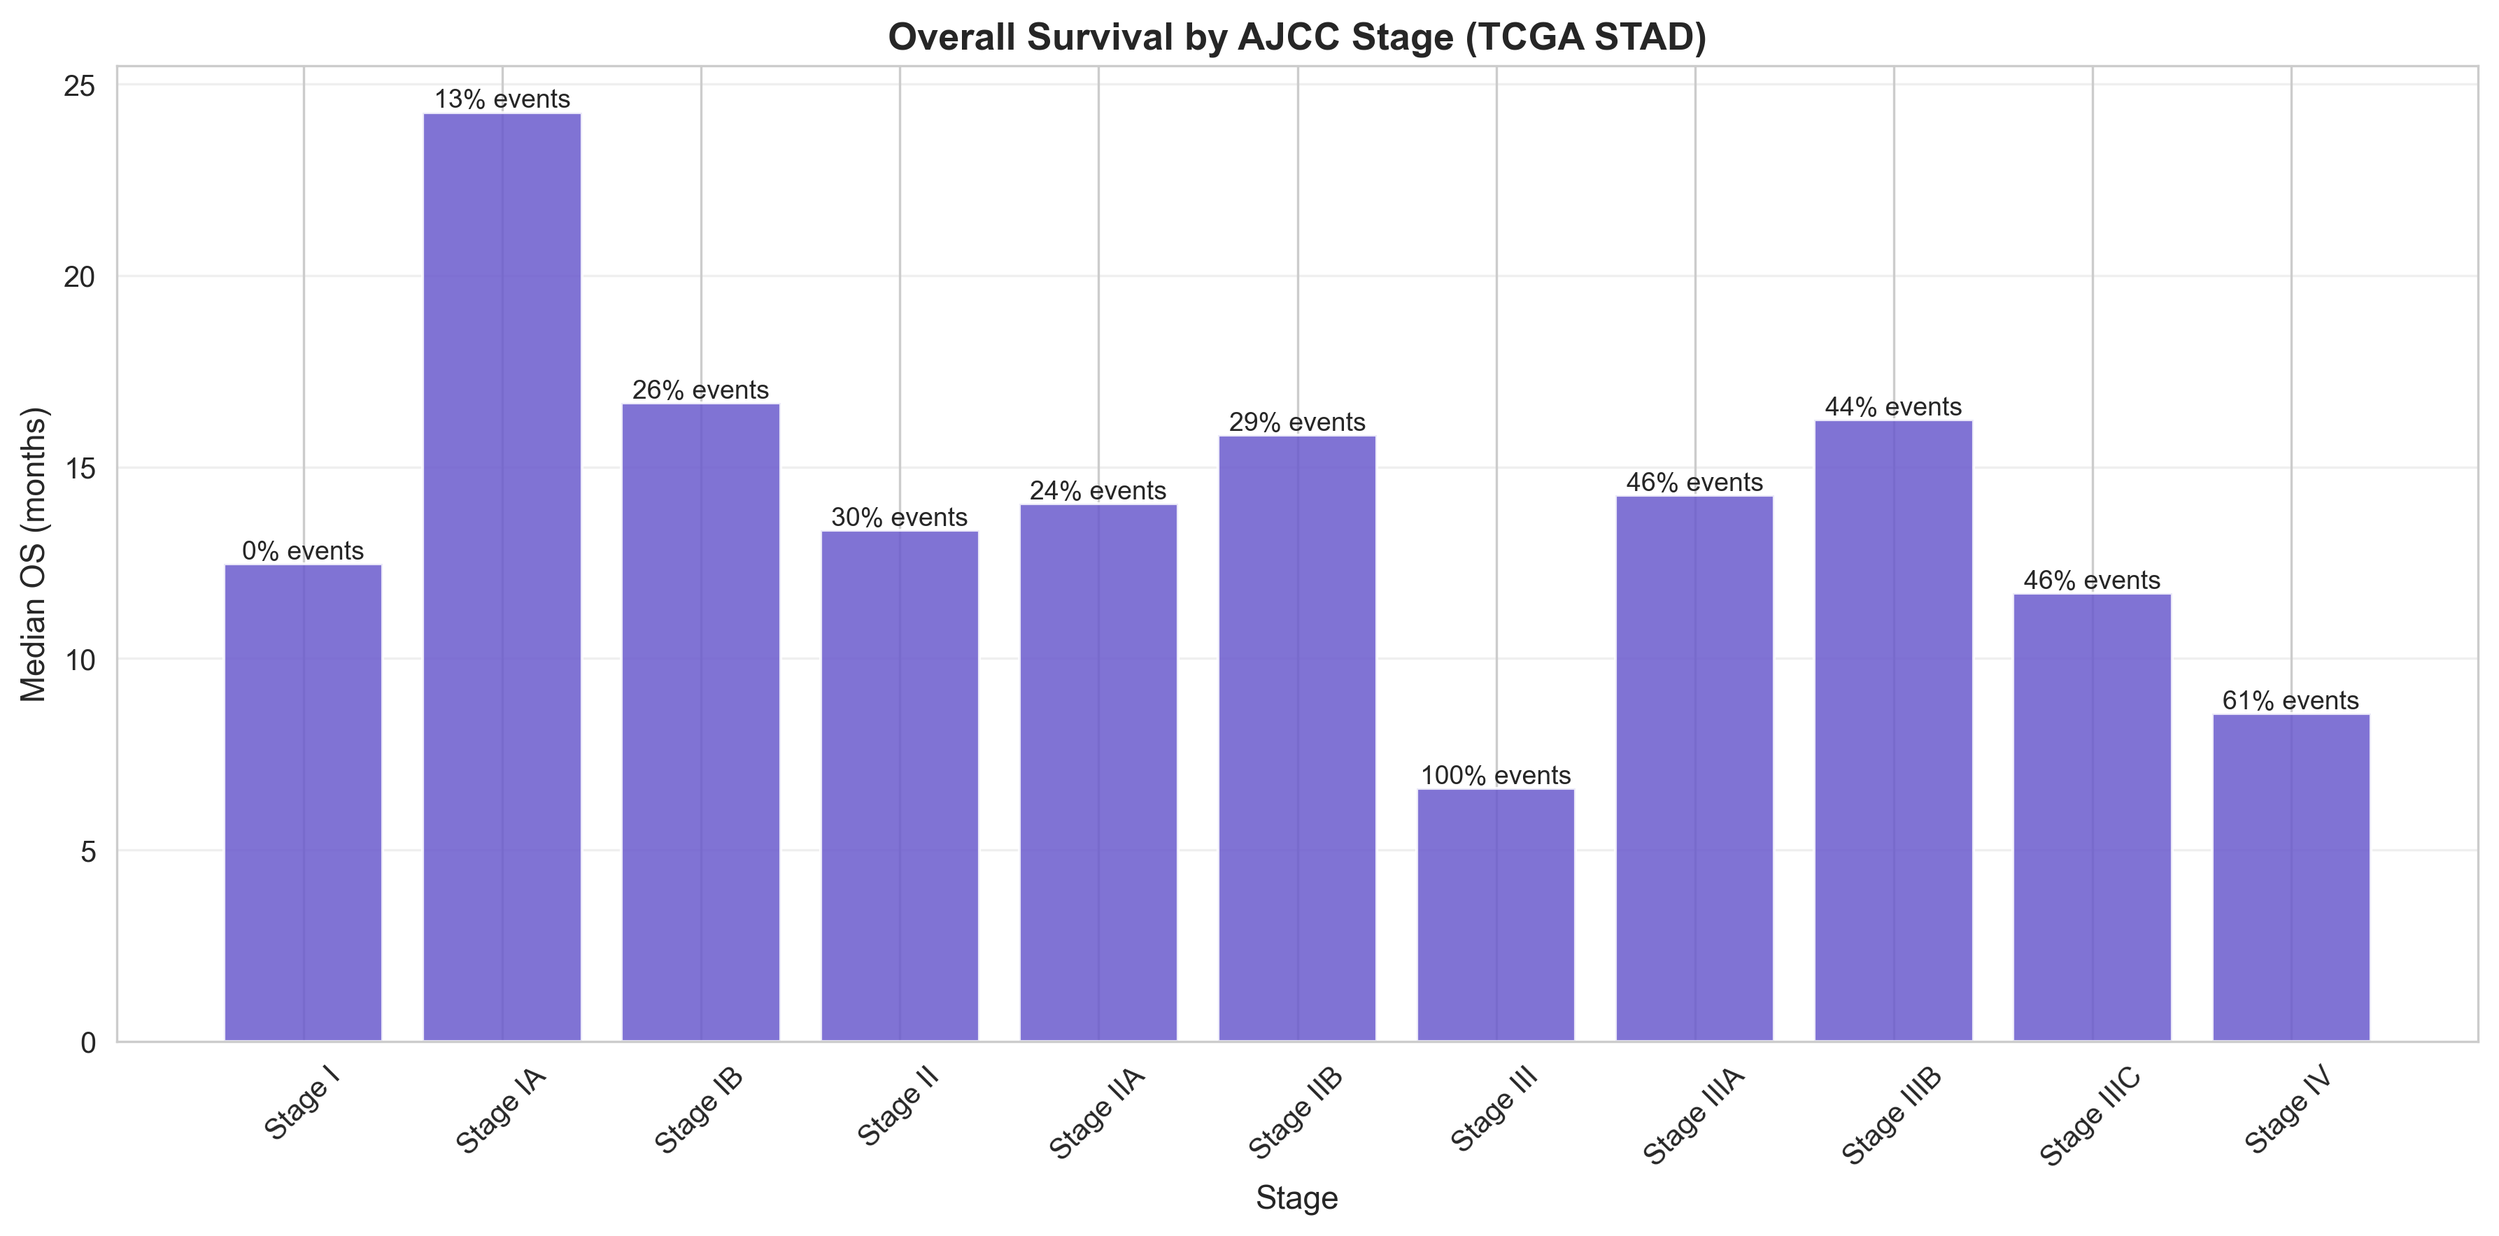
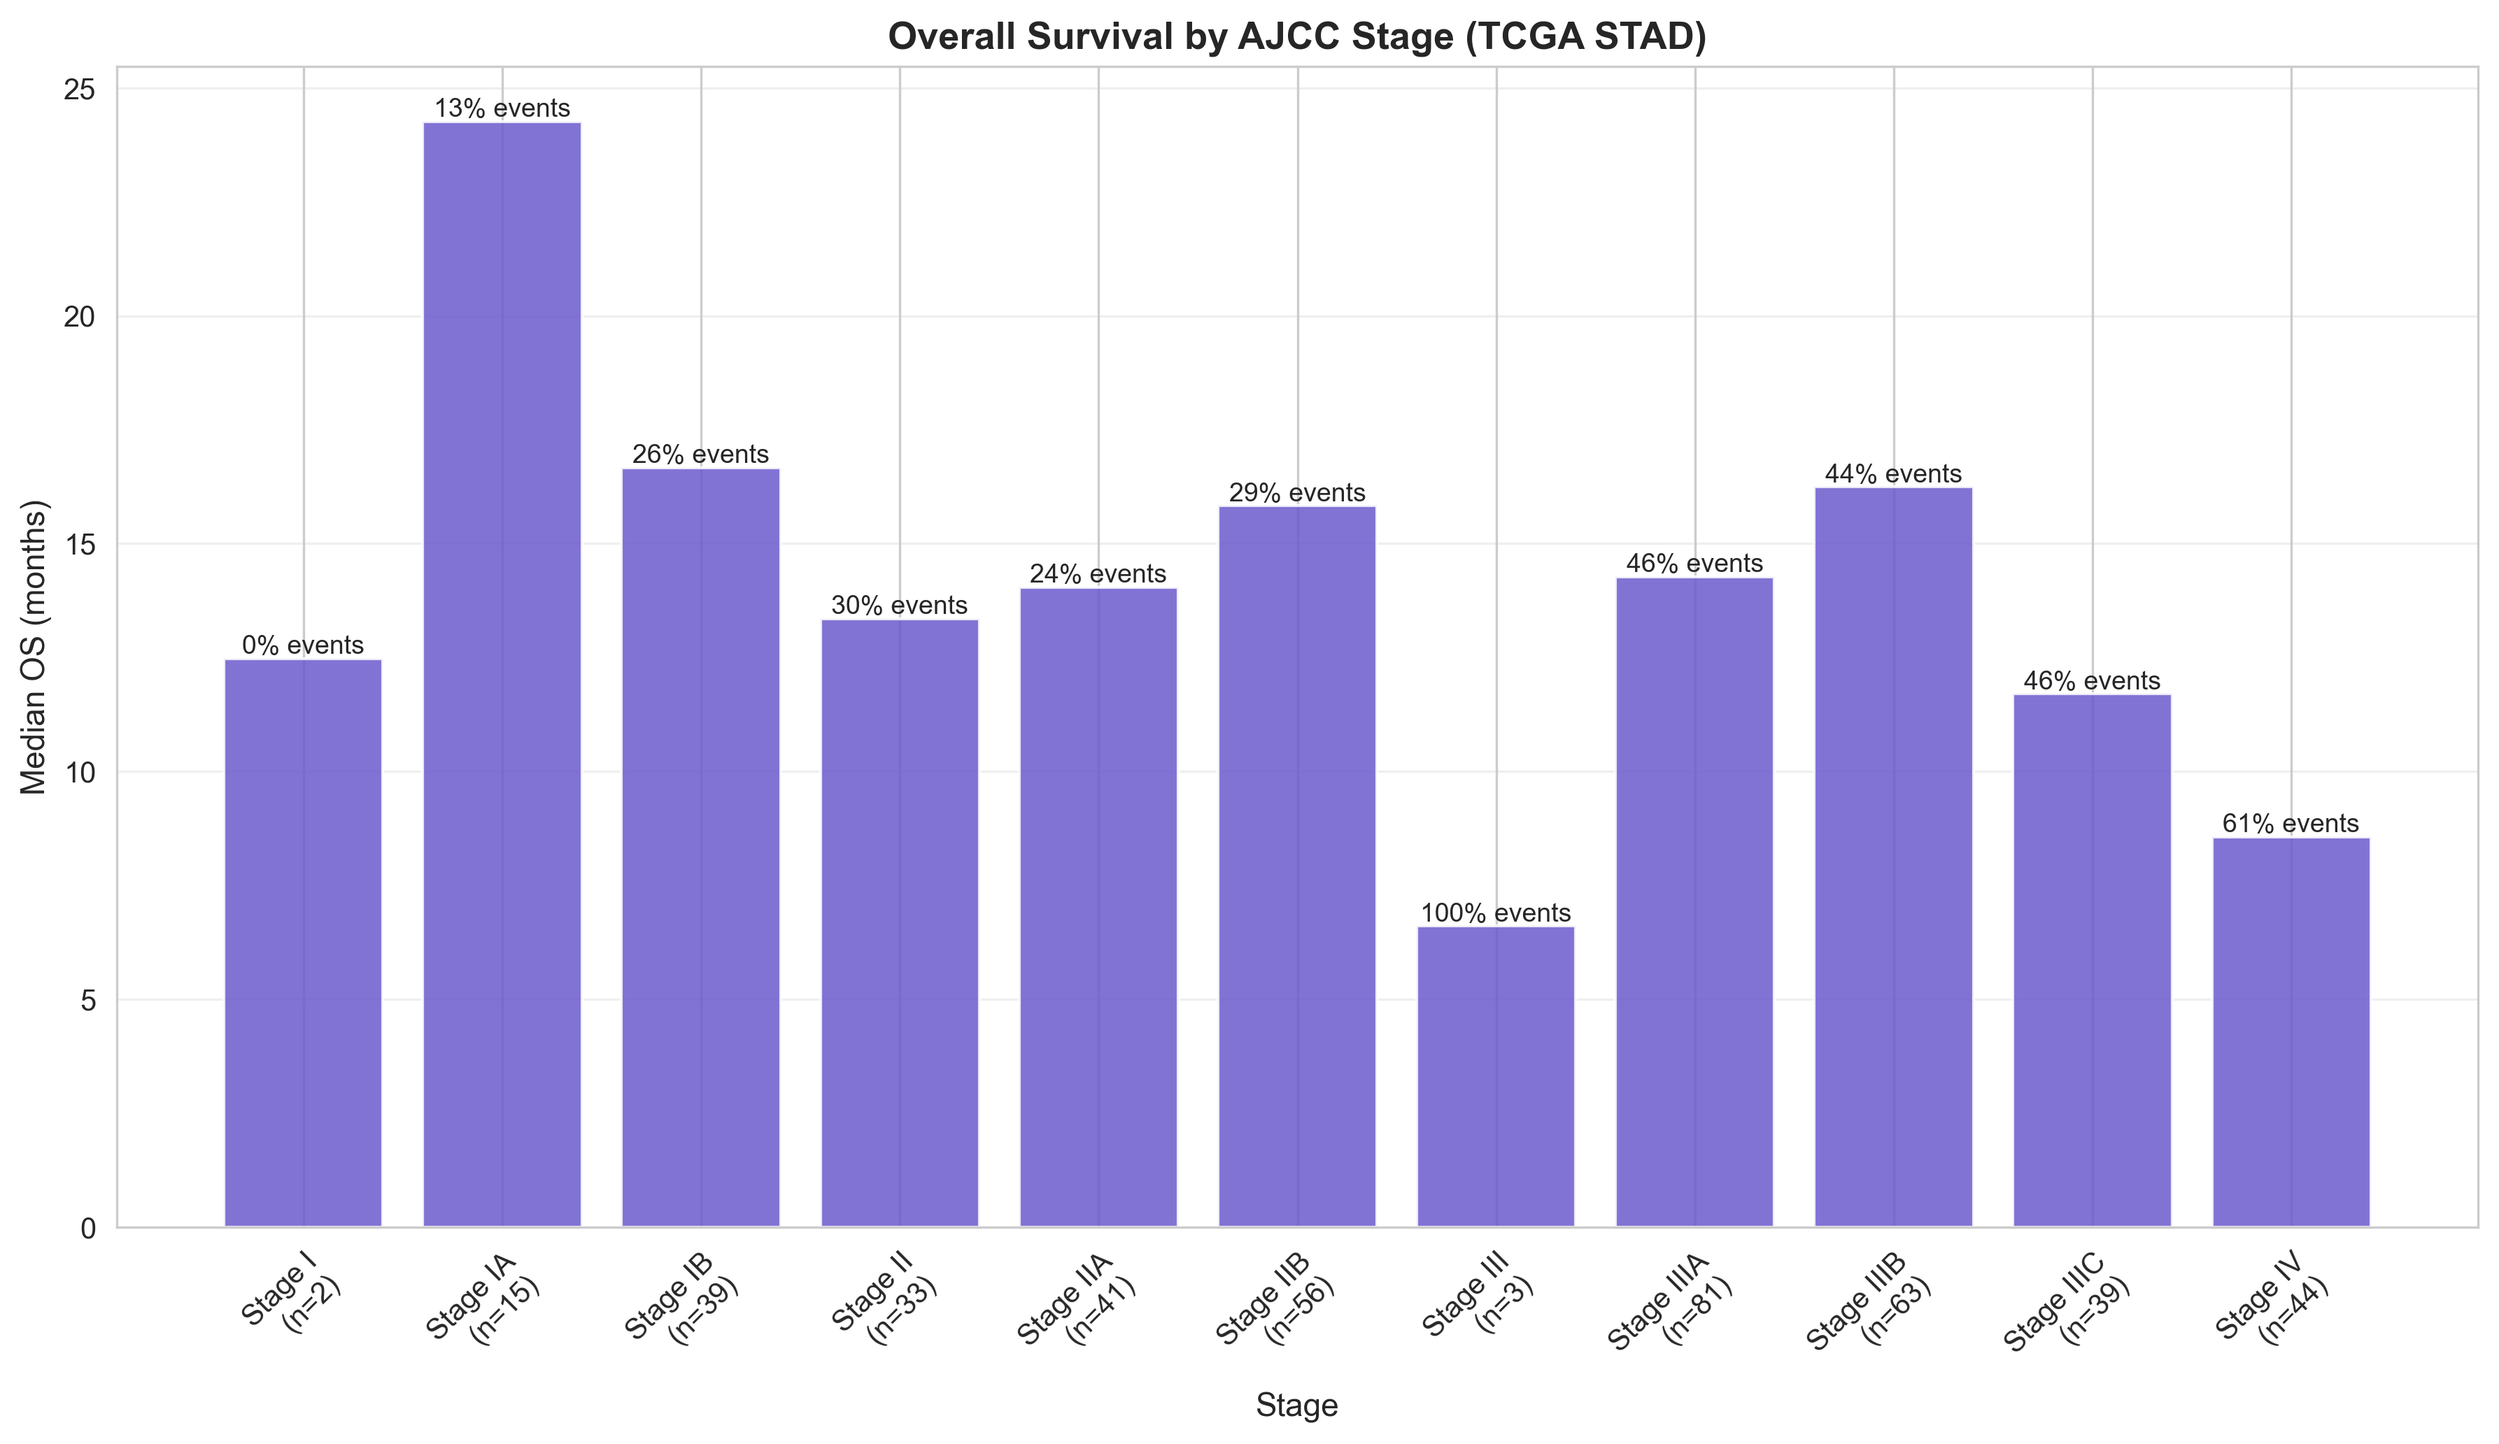
kaplan-meier plots for different stages of disease progression

diff --git a/staging_visualization.py b/staging_visualization.py
@@ -16,6 +16,7 @@ import matplotlib.pyplot as plt
 import numpy as np
 import pandas as pd
 import seaborn as sns
+from lifelines import KaplanMeierFitter
 
 sns.set_style("whitegrid")
 plt.rcParams["figure.figsize"] = (14, 8)
@@ -83,6 +84,7 @@ M_STAGE_ORDER = ["M0", "M1", "MX"]
 FIG_STAGE_DISTRIBUTION = "tnm_staging_distribution.png"
 FIG_TN_HEATMAP = "tn_heatmap.png"
 FIG_SURVIVAL = "os_by_stage.png"
+FIG_KM_SURVIVAL = "km_by_stage.png"
 
 
 def parse_args() -> argparse.Namespace:
@@ -100,6 +102,12 @@ def parse_args() -> argparse.Namespace:
         type=Path,
         default=BASE_DIR,
         help="Directory to store generated figures (default: project root).",
+    )
+    parser.add_argument(
+        "--km-min-group",
+        type=int,
+        default=15,
+        help="Minimum patients per stage required to draw a Kaplan-Meier curve (default: %(default)s).",
     )
     return parser.parse_args()
 
@@ -330,12 +338,17 @@ def plot_survival_by_stage(summary: pd.DataFrame, output_path: Path) -> bool:
     if summary.empty:
         return False
 
-    fig, ax = plt.subplots(figsize=(12, 6))
-    bars = ax.bar(summary.index, summary["median_os"], color="slateblue", alpha=0.85)
+    fig, ax = plt.subplots(figsize=(12, 7))
+
+    new_labels = [f"{stage}\n(n={int(count)})" for stage, count in zip(summary.index, summary["patient_count"])]
+
+    bars = ax.bar(new_labels, summary["median_os"], color="slateblue", alpha=0.85)
+
     ax.set_ylabel("Median OS (months)", fontsize=11)
     ax.set_title("Overall Survival by AJCC Stage (TCGA STAD)", fontsize=13, fontweight="bold")
     ax.set_xlabel("Stage", fontsize=11)
-    ax.tick_params(axis="x", rotation=45)
+    ax.set_xticklabels(new_labels, rotation=45, ha="right", rotation_mode="anchor")
+
     ax.grid(axis="y", alpha=0.3)
 
     for bar, rate in zip(bars, summary["event_rate_pct"]):
@@ -348,6 +361,57 @@ def plot_survival_by_stage(summary: pd.DataFrame, output_path: Path) -> bool:
             fontsize=9,
         )
 
+    plt.tight_layout()
+    fig.savefig(output_path, dpi=300, bbox_inches="tight")
+    plt.close(fig)
+    return True
+
+
+def plot_kaplan_meier(
+    df: pd.DataFrame,
+    output_path: Path,
+    min_group_size: int = 15,
+) -> bool:
+    km_df = df.dropna(subset=["overall_survival_months", "ajcc_stage"]).copy()
+    if km_df.empty:
+        return False
+
+    ordered_stages = [
+        stage for stage in STAGE_ORDER if stage in km_df["ajcc_stage"].unique()
+    ] + [
+        stage for stage in km_df["ajcc_stage"].unique() if stage not in STAGE_ORDER
+    ]
+
+    kmf = KaplanMeierFitter()
+    plotted = False
+
+    fig, ax = plt.subplots(figsize=(12, 8))
+    for stage in ordered_stages:
+        stage_df = km_df[km_df["ajcc_stage"] == stage]
+        if len(stage_df) < min_group_size:
+            continue
+        kmf.fit(
+            durations=stage_df["overall_survival_months"],
+            event_observed=stage_df["survival_event"],
+            label=f"{stage} (n={len(stage_df)})",
+        )
+        kmf.plot_survival_function(ax=ax, ci_show=True)
+        plotted = True
+
+    if not plotted:
+        plt.close(fig)
+        return False
+
+    ax.set_ylim(0, 1.05)
+    ax.set_ylabel("Overall survival probability", fontsize=11)
+    ax.set_xlabel("Months since diagnosis", fontsize=11)
+    ax.set_title(
+        "Kaplan–Meier Survival by AJCC Stage (TCGA STAD)",
+        fontsize=13,
+        fontweight="bold",
+    )
+    ax.grid(alpha=0.3)
+    ax.legend(title="Stage", fontsize=9)
     plt.tight_layout()
     fig.savefig(output_path, dpi=300, bbox_inches="tight")
     plt.close(fig)
@@ -420,6 +484,14 @@ def main() -> None:
     else:
         skipped_outputs.append(
             f"{survival_path} (insufficient AJCC stage + survival duration data)"
+        )
+
+    km_path = figures_dir / FIG_KM_SURVIVAL
+    if plot_kaplan_meier(df, km_path, min_group_size=args.km_min_group):
+        generated_files.append(km_path)
+    else:
+        skipped_outputs.append(
+            f"{km_path} (no stages met km_min_group={args.km_min_group})"
         )
 
     print_summary(stage_counts, survival_summary)

diff --git a/README.md b/README.md
@@ -44,6 +44,8 @@ This codebase substantiates the translational premise that station-specific lymp
     station-level guidance is clinically most consequential.
 - `os_by_stage.png` – median overall survival with event rates, underscoring the 
     outcome gradient that Aim 1 seeks to tighten.
+- `km_by_stage.png` – Kaplan–Meier survival curves by AJCC stage (optional; stages  
+    must meet the minimum cohort size threshold).
 
 Any additional PNGs present in the repository are archived artifacts from internal discussions and are not part of the automated workflow.
 
@@ -106,10 +108,12 @@ python staging_visualization.py --data data/tcga_2018_clinical_data.tsv --output
 
 Default inputs live in `data/tcga_2018_clinical_data.tsv`, but both the dataset and configuration paths can be swapped to reflect local registries or institution-specific coefficients.
 
+Use `--km-min-group <int>` to control the minimum number of patients required for a stage-specific Kaplan–Meier curve (default: 15). This keeps the panel focused on strata with sufficient statistical support while still documenting the shape of survival for dissertation reviewers.
+
 ## Software Requirements
 
 - Python 3.9 or newer.
-- Packages enumerated in `requirements.txt` (pandas, numpy, matplotlib, seaborn).
+- Packages enumerated in `requirements.txt` (pandas, numpy, matplotlib, seaborn, lifelines).
 - For Debian/Ubuntu hosts lacking tooling, install once:
 
 ```bash
@@ -139,6 +143,8 @@ This safeguard enables screening committees to verify dataset integrity without 
     observational data and should not be used for causal inference without institutional validation.
 - Reported survival summaries reflect overall survival only; disease-free 
     intervals were not uniformly available in the 2018 release.
+- Kaplan–Meier curves showcase the full hazard trajectory for each AJCC stage; 
+    expanded KM and log-rank analyses are planned for the prospective dissertation phase once local registries are enrolled.
 
 ## Repository Stewardship
 
